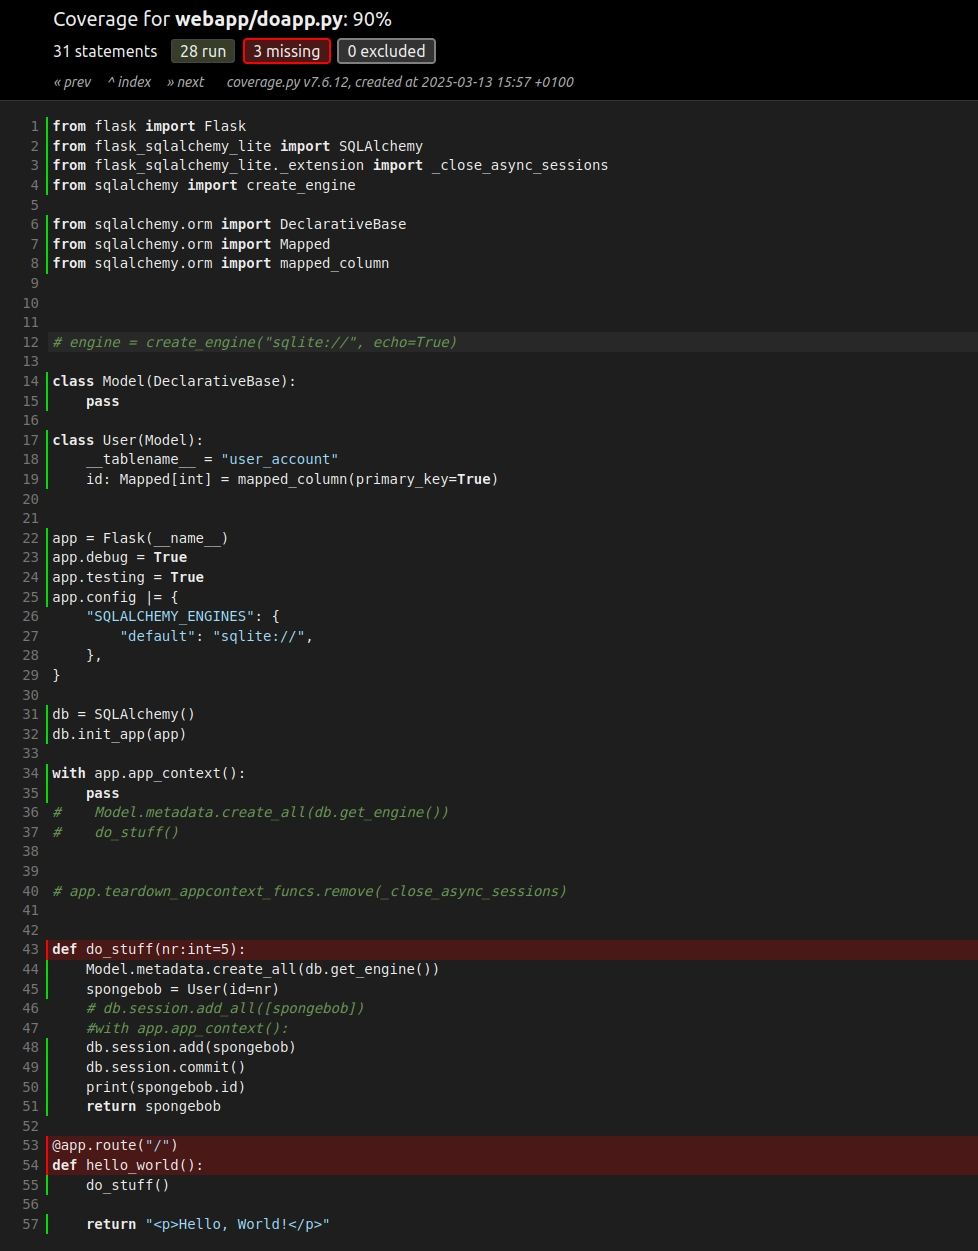
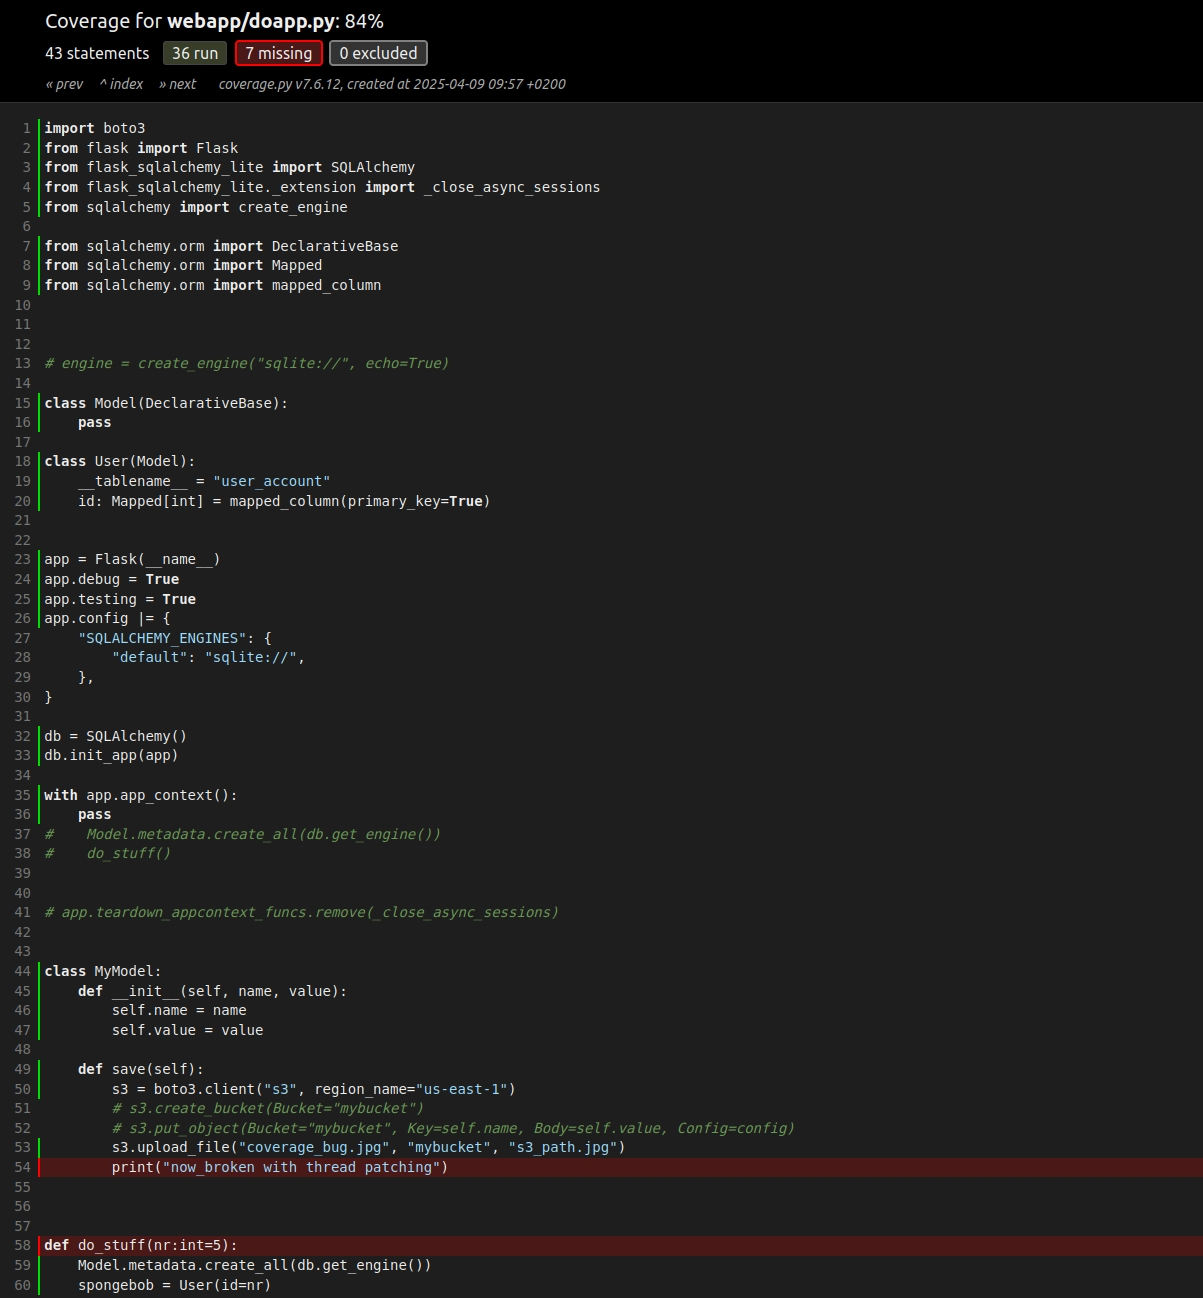
Add steps to reproduce with S3 and `--no-thread` patching

diff --git a/webapp/doapp.py b/webapp/doapp.py
@@ -1,3 +1,4 @@
+import boto3
 from flask import Flask
 from flask_sqlalchemy_lite import SQLAlchemy
 from flask_sqlalchemy_lite._extension import _close_async_sessions
@@ -40,13 +41,30 @@ with app.app_context():
 # app.teardown_appcontext_funcs.remove(_close_async_sessions)
 
 
+class MyModel:
+    def __init__(self, name, value):
+        self.name = name
+        self.value = value
+
+    def save(self):
+        s3 = boto3.client("s3", region_name="us-east-1")
+        # s3.create_bucket(Bucket="mybucket")
+        # s3.put_object(Bucket="mybucket", Key=self.name, Body=self.value, Config=config)
+        s3.upload_file("coverage_bug.jpg", "mybucket", "s3_path.jpg")
+        print("now_broken with thread patching")
+
+
+
 def do_stuff(nr:int=5):
     Model.metadata.create_all(db.get_engine())
     spongebob = User(id=nr)
     # db.session.add_all([spongebob])
     #with app.app_context():
+    md = MyModel("name", "value")
+    print(md.name)
     db.session.add(spongebob)
     db.session.commit()
+    md.save()
     print(spongebob.id)
     return spongebob
 

diff --git a/tests/test_some.py b/tests/test_some.py
@@ -1,11 +1,17 @@
 from webapp.doapp import app as the_app
 import pytest
+from moto import mock_aws
+import boto3
 
 @pytest.fixture
 def app():
     return the_app
 
+@mock_aws
 def test_some(client):
+    conn = boto3.resource("s3", region_name="us-east-1")
+    # We need to create the bucket since this is all in Moto's 'virtual' AWS account
+    conn.create_bucket(Bucket="mybucket")
     # gevent.spawn(do_stuff).join()
     # do_stuff()
     r0 = client.get('/')

diff --git a/readme.MD b/readme.MD
@@ -6,9 +6,9 @@ python -m gevent.monkey --module pytest tests/ --cov=webapp --cov-report html -s
 
 
 
-Works ok:
+Works ok with `--no-thread`:
 
-python -m pytest tests/ --cov=webapp --cov-report html -s
+python -m gevent.monkey --no-thread --module pytest tests/ --cov=webapp --cov-report html -s
 
 
 ![](coverage_no_bug.jpg)
